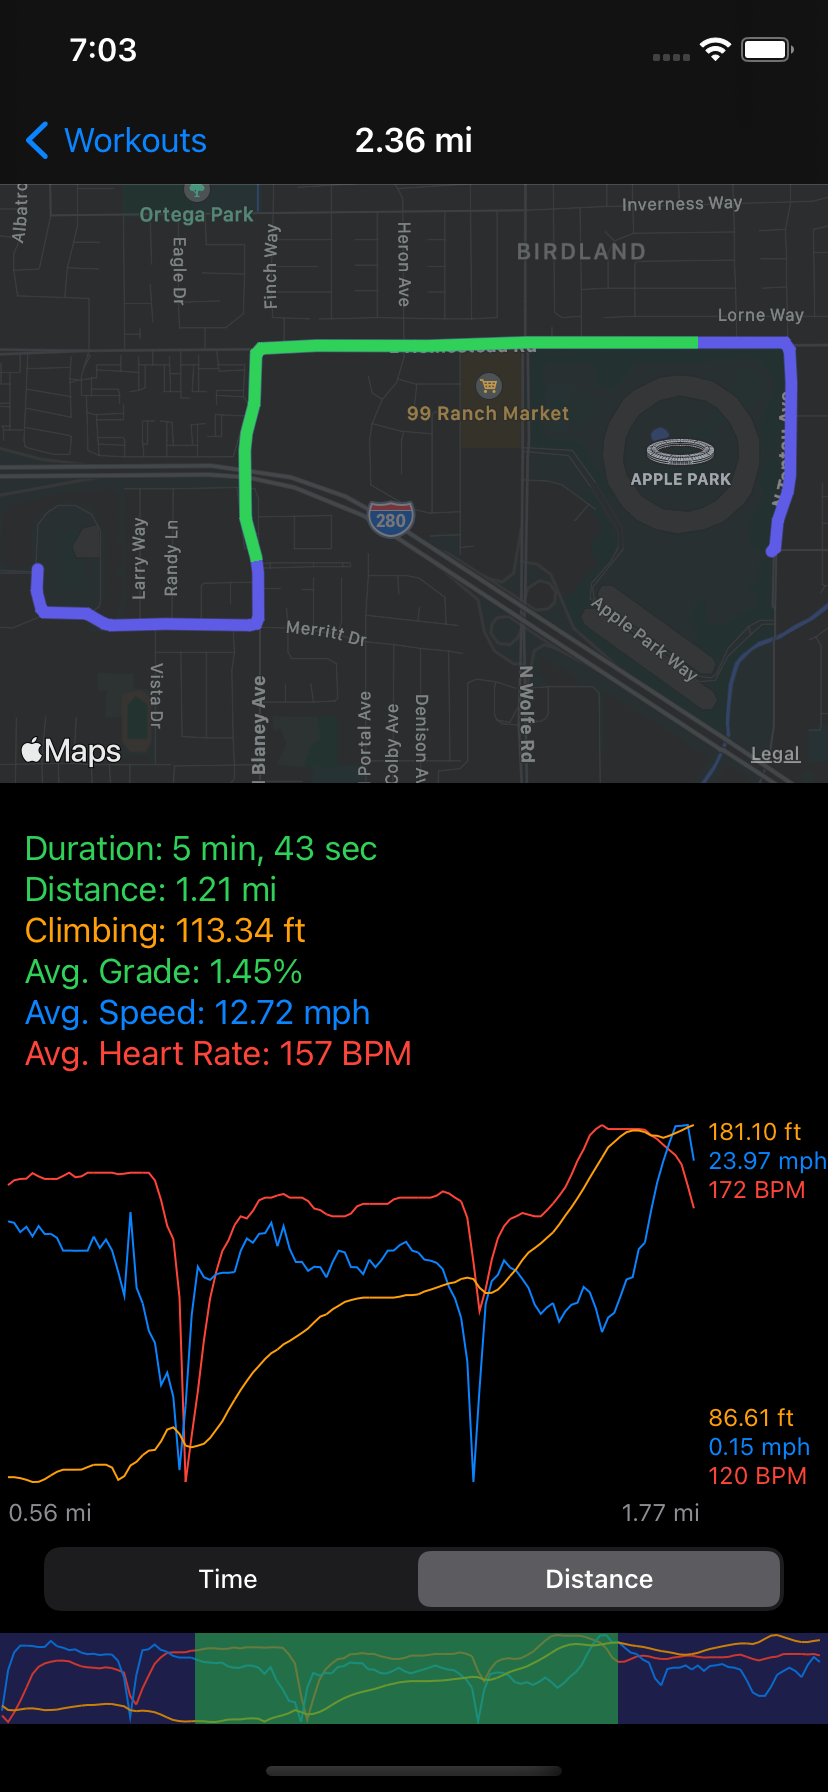
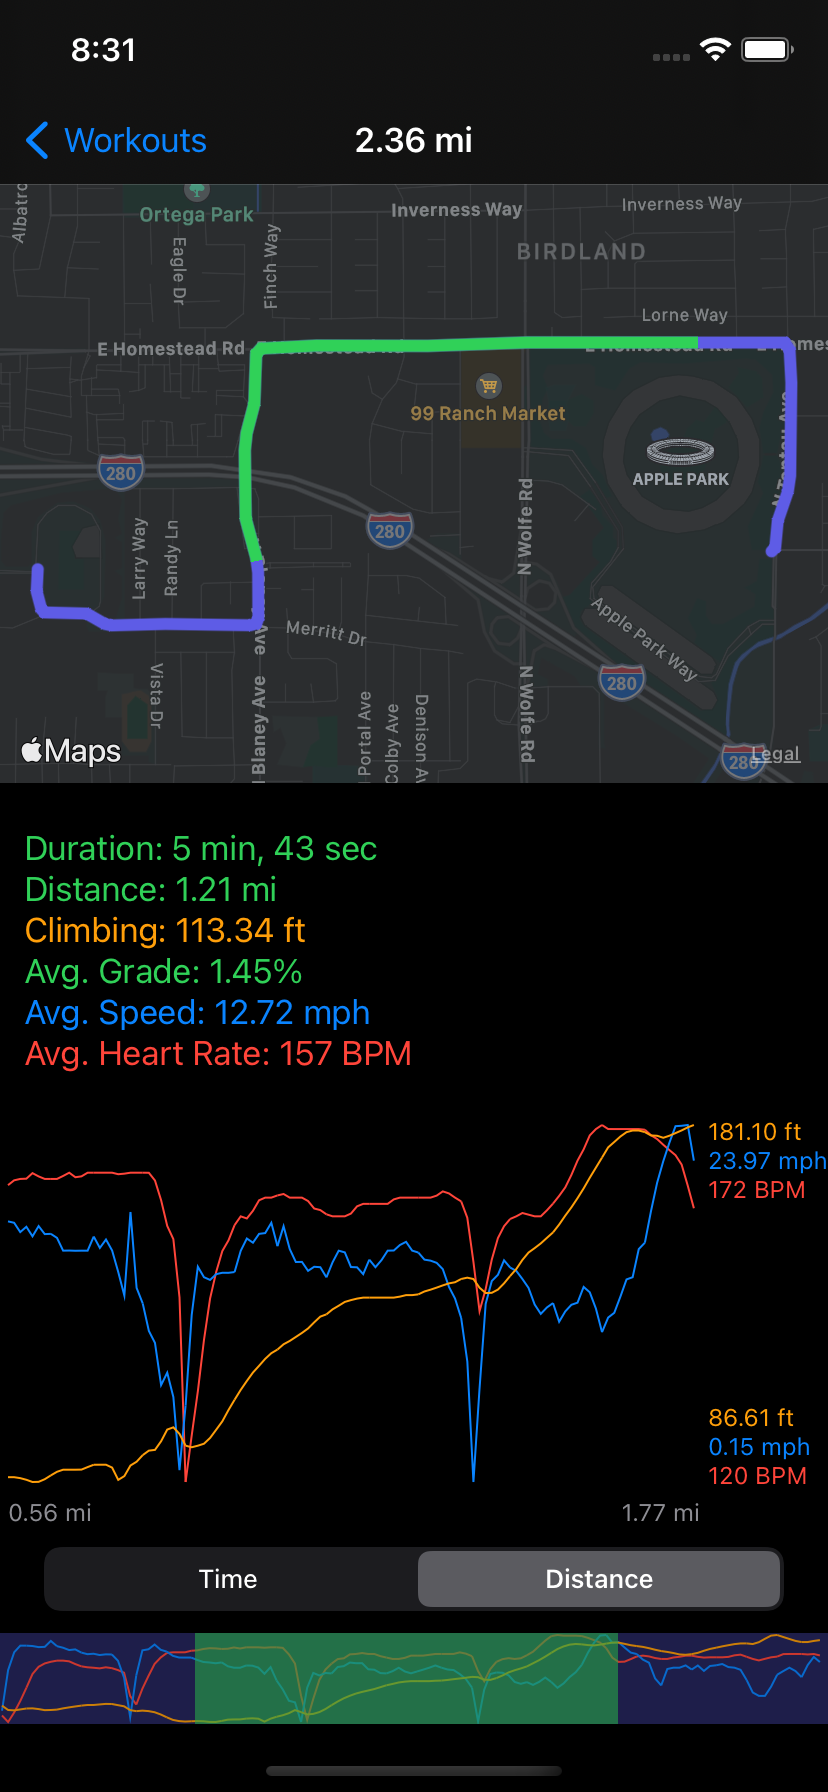
[WSViewController] Increase route vertical insets in map view
Avoid cutting off the point annotation

Remove iPhone SE (2nd gen) screenshots

diff --git a/WorkoutSpot/ViewControllers/WSViewController.m b/WorkoutSpot/ViewControllers/WSViewController.m
@@ -364,7 +364,7 @@ typedef NS_ENUM(NSUInteger, WSMapOverlayIndex) {
 - (void)focusMapOnRoute {
     id<MKOverlay> routeOverlay = self.routeOverlay;
     if (routeOverlay) {
-        UIEdgeInsets padding = UIEdgeInsetsMake(18, 18, 18, 18);
+        UIEdgeInsets padding = UIEdgeInsetsMake(32, 18, 32, 18);
         BOOL shouldAnimate = (self.navigationController != nil);
         [self.mapView setVisibleMapRect:routeOverlay.boundingMapRect edgePadding:padding animated:shouldAnimate];
     }

diff --git a/Screenshots/iPhone12,5/README.md b/Screenshots/iPhone12,5/README.md
@@ -1,0 +1,14 @@
+## iPhone 11 Pro Max 14.0
+
+![0_home](0_home.png)
+
+![1_preview](1_preview.png)
+
+![2_time_segment](2_time_segment.png)
+
+![3_time_point](3_time_point.png)
+
+![4_distance_point](4_distance_point.png)
+
+![5_distance_segment](5_distance_segment.png)
+

diff --git a/Screenshots/iPhone10,5/README.md b/Screenshots/iPhone10,5/README.md
@@ -1,4 +1,4 @@
-## iPhone SE (2nd generation) 14.0
+## iPhone 8 Plus 14.0
 
 ![0_home](0_home.png)
 
